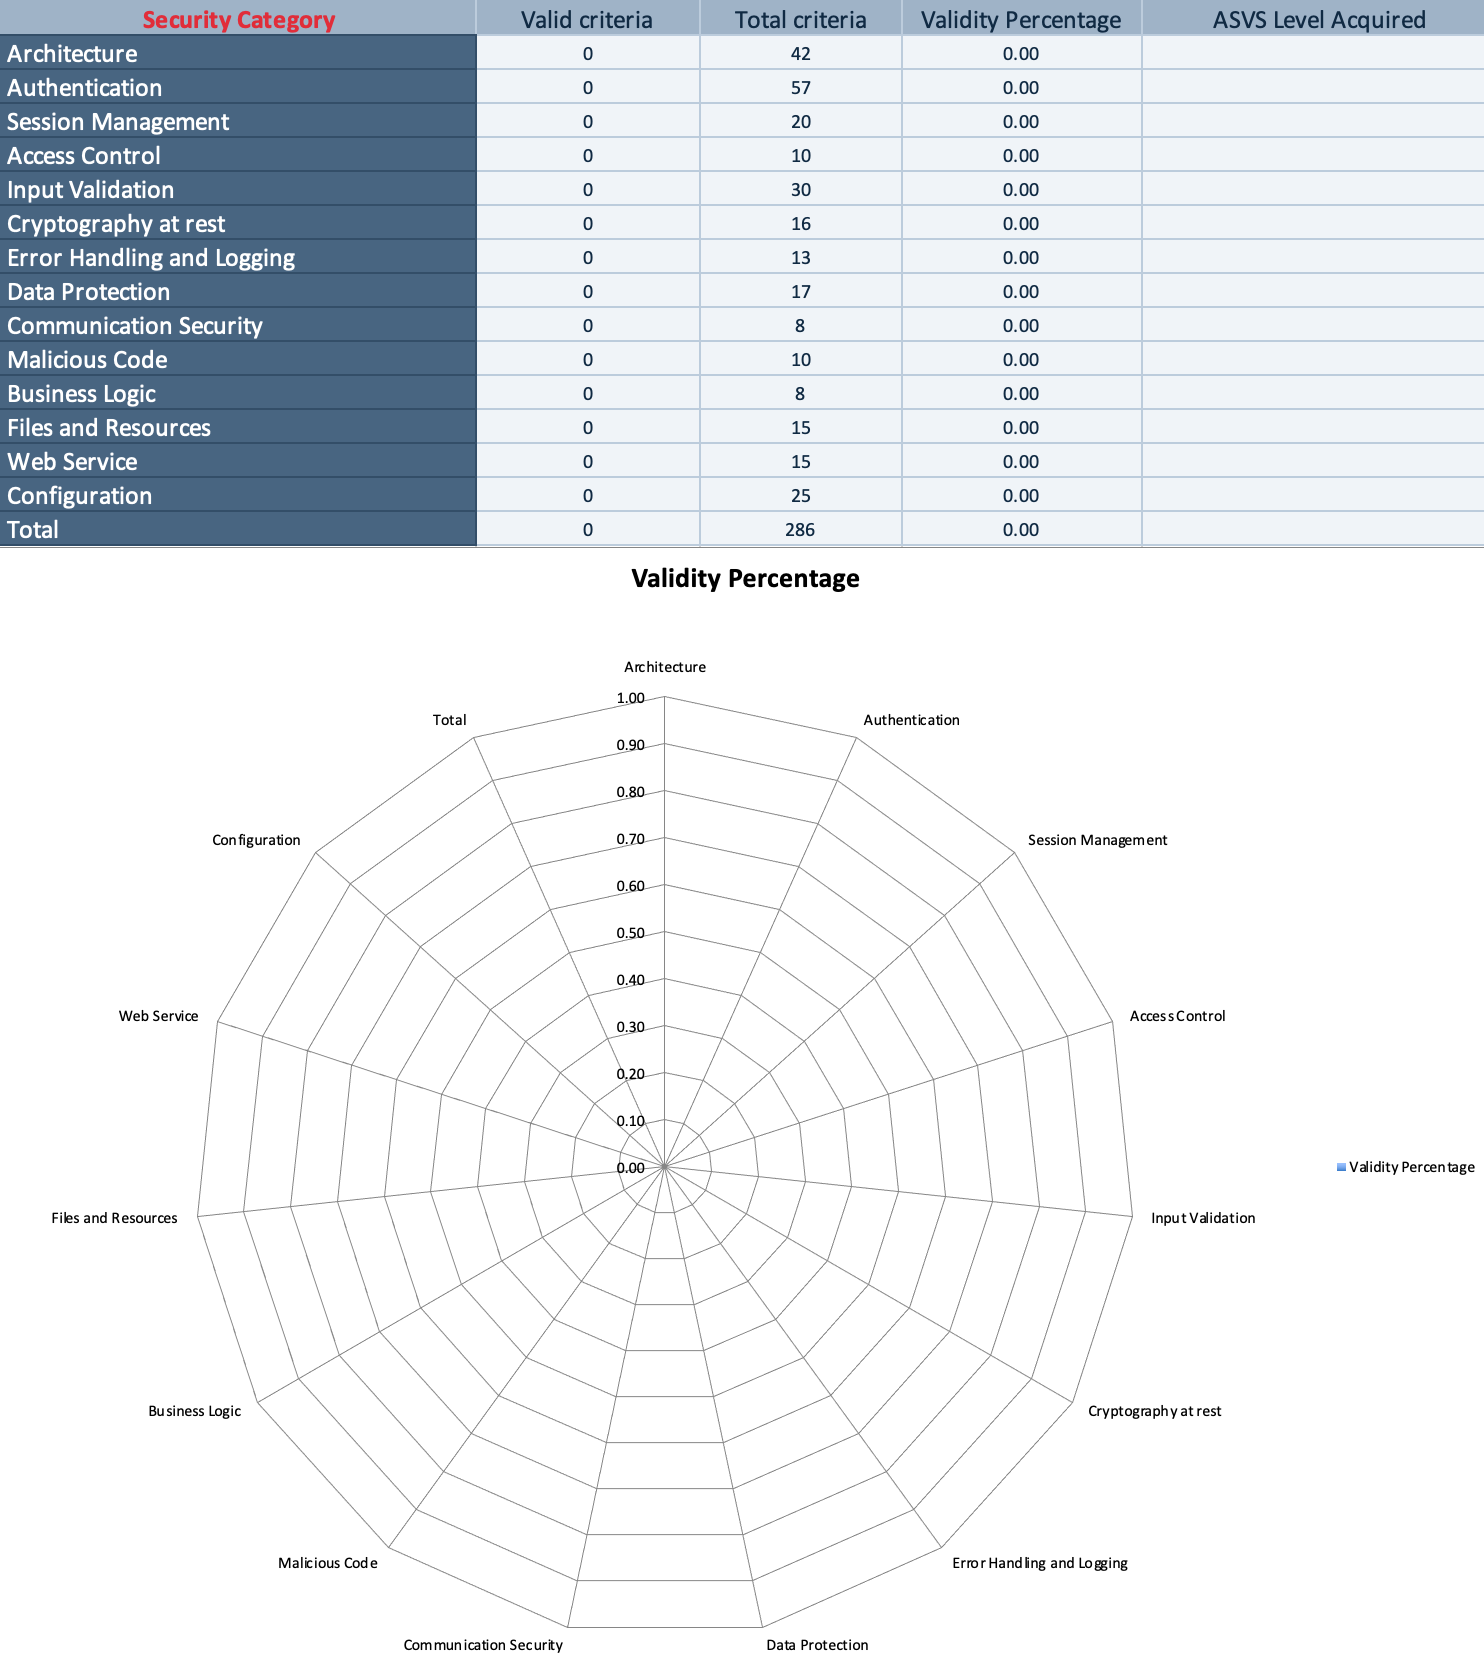
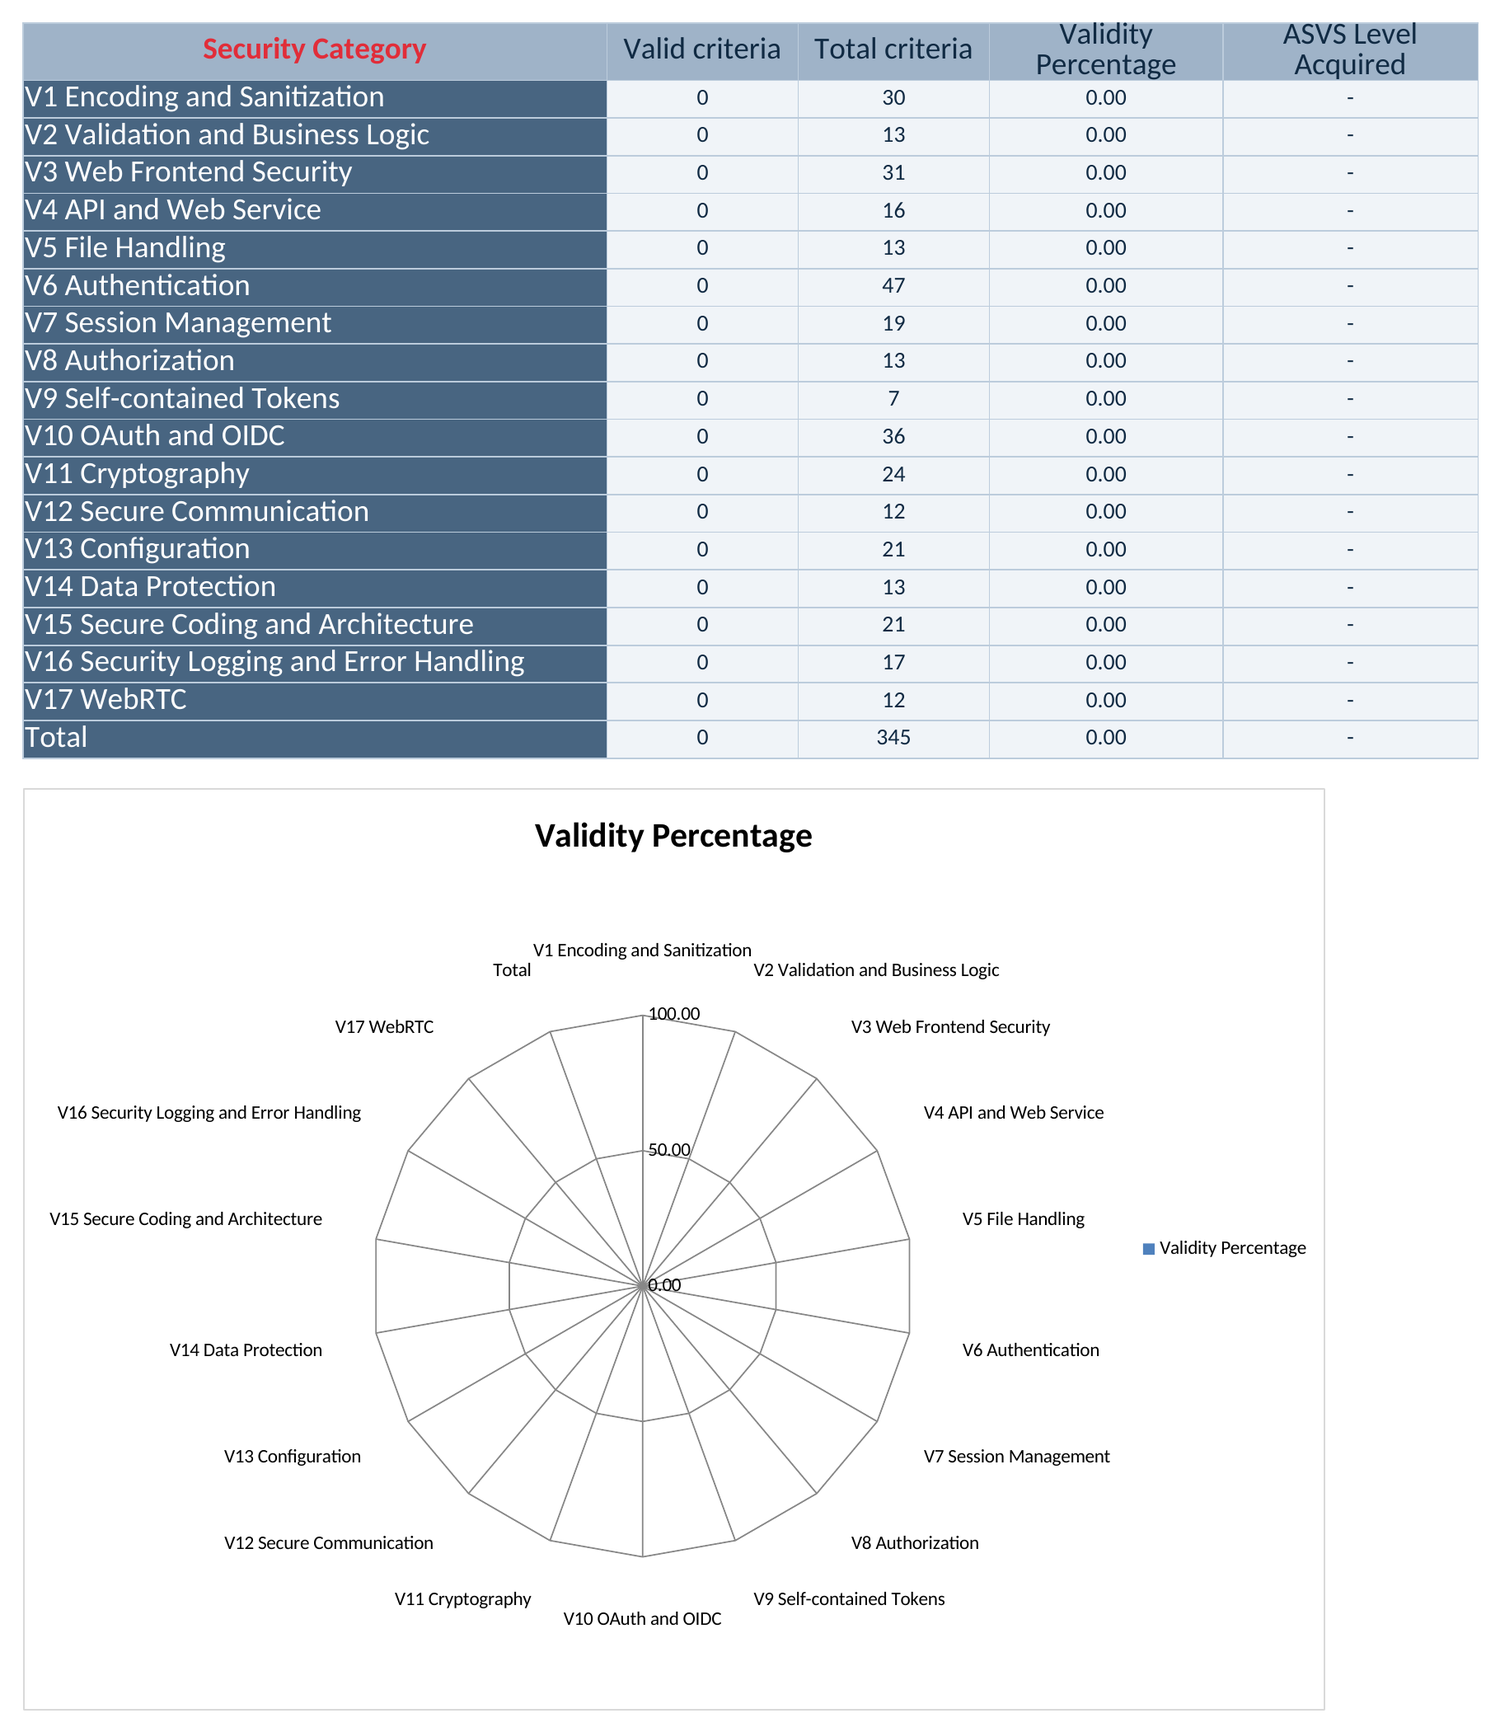
Refresh the results screenshot for 5.0.0
Captured from the generated workbook with headless LibreOffice: the ASVS
Results sheet now lists the 17 chapters of ASVS 5.0.0, their requirement
counts (345 in total) and the ASVS Level Acquired column.

Also trims the radar chart height so the plot fills its frame instead of
leaving a band of empty space underneath.

Claude-Session: https://claude.ai/code/session_01UT3j3qz2R7Fqbs6qgaXeHo

diff --git a/tools/build_checklist.py b/tools/build_checklist.py
@@ -388,7 +388,7 @@ def build_results_sheet(workbook: Workbook, chapters: "OrderedDict[str, dict]") 
     chart.title = "Validity Percentage"
     chart.y_axis.scaling.min = 0
     chart.y_axis.scaling.max = 100
-    chart.height = 20
+    chart.height = 17
     chart.width = 24
     data = Reference(sheet, min_col=4, min_row=1, max_row=total_row)
     categories = Reference(sheet, min_col=1, min_row=first_row, max_row=total_row)
